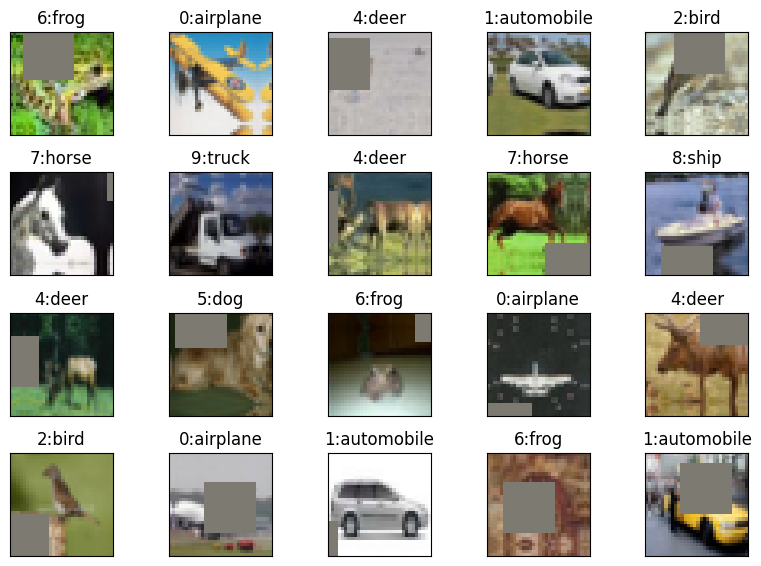
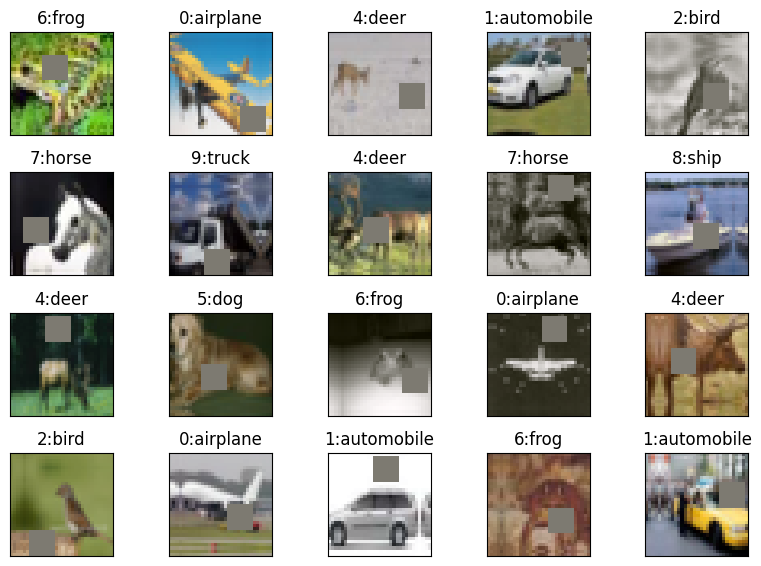
update readme

diff --git a/README.md b/README.md
@@ -1,8 +1,10 @@
 # ERA V1 Session 12
 
-This is a common modular library created in pytorch for ERAv1.
-
 ## Code Structure
+
+This model was trained using [Pytorch Lightning](https://lightning.ai).
+
+To view this in action, check this [Hugging Face app](https://huggingface.co/spaces/swapniel99/cifar10)
 
 ### datasets Module
 #### 1a. datasets/generic.py Module
@@ -20,33 +22,110 @@ Image Augmentations used:
 import albumentations as A
 
 default_alb_transforms = [
-    A.HorizontalFlip(p=0.5),
+    A.Normalize(mean, std),
+    A.ToGray(p=0.2),
     A.PadIfNeeded(40, 40, p=1),
     A.RandomCrop(32, 32, p=1),
-    # Padding value doesnt matter here.
-    A.PadIfNeeded(64, 64, border_mode=cv2.BORDER_CONSTANT, value=0, p=1),
+    A.HorizontalFlip(p=0.5),
     # Since normalisation was the first step, mean is already 0, so cutout fill_value = 0
-    A.CoarseDropout(max_holes=1, max_height=16, max_width=16, fill_value=0, p=1),
-    A.CenterCrop(32, 32, p=1)
+    A.CoarseDropout(max_holes=1, max_height=8, max_width=8, fill_value=0, p=1),
+    A.pytorch.ToTensorV2()
 ]
 ```
 
 ![CIFAR10 Examples](assets/cifar_aug.png)
 
 ### 2. models Module
-This module contains all the model definitions.
+This module contains custom modification of resnet Model using Pytorch Lightning.
+
+```
+INFO:pytorch_lightning.callbacks.model_summary:
+   | Name                               | Type             | Params
+-------------------------------------------------------------------------
+0  | network                            | Sequential       | 6.6 M 
+1  | network.0                          | CustomLayer      | 1.9 K 
+2  | network.0.pool_block               | ConvLayer        | 1.9 K 
+3  | network.0.pool_block.all_layers    | Sequential       | 1.9 K 
+4  | network.0.pool_block.all_layers.0  | Conv2d           | 1.7 K 
+5  | network.0.pool_block.all_layers.1  | BatchNorm2d      | 128   
+6  | network.0.pool_block.all_layers.2  | ReLU             | 0     
+7  | network.0.pool_block.all_layers.3  | Dropout          | 0     
+8  | network.1                          | CustomLayer      | 369 K 
+9  | network.1.pool_block               | ConvLayer        | 74.0 K
+10 | network.1.pool_block.all_layers    | Sequential       | 74.0 K
+11 | network.1.pool_block.all_layers.0  | Conv2d           | 73.7 K
+12 | network.1.pool_block.all_layers.1  | MaxPool2d        | 0     
+13 | network.1.pool_block.all_layers.2  | BatchNorm2d      | 256   
+14 | network.1.pool_block.all_layers.3  | ReLU             | 0     
+15 | network.1.pool_block.all_layers.4  | Dropout          | 0     
+16 | network.1.res_block                | Sequential       | 295 K 
+17 | network.1.res_block.0              | ConvLayer        | 147 K 
+18 | network.1.res_block.0.all_layers   | Sequential       | 147 K 
+19 | network.1.res_block.0.all_layers.0 | Conv2d           | 147 K 
+20 | network.1.res_block.0.all_layers.1 | BatchNorm2d      | 256   
+21 | network.1.res_block.0.all_layers.2 | ReLU             | 0     
+22 | network.1.res_block.0.all_layers.3 | Dropout          | 0     
+23 | network.1.res_block.1              | ConvLayer        | 147 K 
+24 | network.1.res_block.1.all_layers   | Sequential       | 147 K 
+25 | network.1.res_block.1.all_layers.0 | Conv2d           | 147 K 
+26 | network.1.res_block.1.all_layers.1 | BatchNorm2d      | 256   
+27 | network.1.res_block.1.all_layers.2 | ReLU             | 0     
+28 | network.1.res_block.1.all_layers.3 | Dropout          | 0     
+29 | network.2                          | CustomLayer      | 295 K 
+30 | network.2.pool_block               | ConvLayer        | 295 K 
+31 | network.2.pool_block.all_layers    | Sequential       | 295 K 
+32 | network.2.pool_block.all_layers.0  | Conv2d           | 294 K 
+33 | network.2.pool_block.all_layers.1  | MaxPool2d        | 0     
+34 | network.2.pool_block.all_layers.2  | BatchNorm2d      | 512   
+35 | network.2.pool_block.all_layers.3  | ReLU             | 0     
+36 | network.2.pool_block.all_layers.4  | Dropout          | 0     
+37 | network.3                          | CustomLayer      | 5.9 M 
+38 | network.3.pool_block               | ConvLayer        | 1.2 M 
+39 | network.3.pool_block.all_layers    | Sequential       | 1.2 M 
+40 | network.3.pool_block.all_layers.0  | Conv2d           | 1.2 M 
+41 | network.3.pool_block.all_layers.1  | MaxPool2d        | 0     
+42 | network.3.pool_block.all_layers.2  | BatchNorm2d      | 1.0 K 
+43 | network.3.pool_block.all_layers.3  | ReLU             | 0     
+44 | network.3.pool_block.all_layers.4  | Dropout          | 0     
+45 | network.3.res_block                | Sequential       | 4.7 M 
+46 | network.3.res_block.0              | ConvLayer        | 2.4 M 
+47 | network.3.res_block.0.all_layers   | Sequential       | 2.4 M 
+48 | network.3.res_block.0.all_layers.0 | Conv2d           | 2.4 M 
+49 | network.3.res_block.0.all_layers.1 | BatchNorm2d      | 1.0 K 
+50 | network.3.res_block.0.all_layers.2 | ReLU             | 0     
+51 | network.3.res_block.0.all_layers.3 | Dropout          | 0     
+52 | network.3.res_block.1              | ConvLayer        | 2.4 M 
+53 | network.3.res_block.1.all_layers   | Sequential       | 2.4 M 
+54 | network.3.res_block.1.all_layers.0 | Conv2d           | 2.4 M 
+55 | network.3.res_block.1.all_layers.1 | BatchNorm2d      | 1.0 K 
+56 | network.3.res_block.1.all_layers.2 | ReLU             | 0     
+57 | network.3.res_block.1.all_layers.3 | Dropout          | 0     
+58 | network.4                          | MaxPool2d        | 0     
+59 | network.5                          | Flatten          | 0     
+60 | network.6                          | Linear           | 5.1 K 
+61 | criterion                          | CrossEntropyLoss | 0     
+62 | train_accuracy                     | RunningAccuracy  | 0     
+63 | val_accuracy                       | RunningAccuracy  | 0     
+64 | train_loss                         | MeanMetric       | 0     
+65 | val_loss                           | MeanMetric       | 0     
+-------------------------------------------------------------------------
+6.6 M     Trainable params
+0         Non-trainable params
+6.6 M     Total params
+26.293    Total estimated model params size (MB)
+```
 
 ### 3. utils Module
 #### 3a. utils/metrics.py
-This module defines any custom metric classes we create. Currently it contains RunningAccuracy class which accumulates running accuracy for each epoch.
+This module defines any custom metric classes we create.
+Currently, it contains RunningAccuracy class which accumulates running accuracy for each epoch.
 
 #### 3b. utils/experiment.py
 This module contains the experiment class, which carries out training and testing.
 Apart from this it also does the following:
 1. Performs train-test iterations for a given number of epochs or a given validation target accuracy.
-2. Configure Optimizer and Scheduler
-3. Show Misclassified examples
-4. Create GradCAM visualisations of misclassified examples
+2. Show Misclassified examples
+3. Create GradCAM visualisations of misclassified examples
 
 #### 3c. utils/misc.py Module
 This module contains following miscellaneous functions:
@@ -54,3 +133,29 @@ This module contains following miscellaneous functions:
 2. Check for GPU device
 3. Plot dataset images
 4. Get Model summary
+5. Create GradCAM visualizations
+6. Calculate incorrect predictions
+
+## The Results
+
+Best Train Accuracy: 92.76%
+
+Best Test Accuracy: 91.2%
+
+We use ADAM Optimizer with One Cycle LR. Here we used LR Finder to get the steepest LR.
+
+![LRFinder](assets/lr.png)
+
+Validation Loss:
+![Validation Loss](assets/loss.png)
+
+Validation Accuracy:
+![Validation Accuracy](assets/acc.png)
+
+Misclassified Images:
+
+![Misclassified](assets/missed.png)
+
+GradCAM for misclassified images:
+
+![GradCAM](assets/missed_cam.png)
